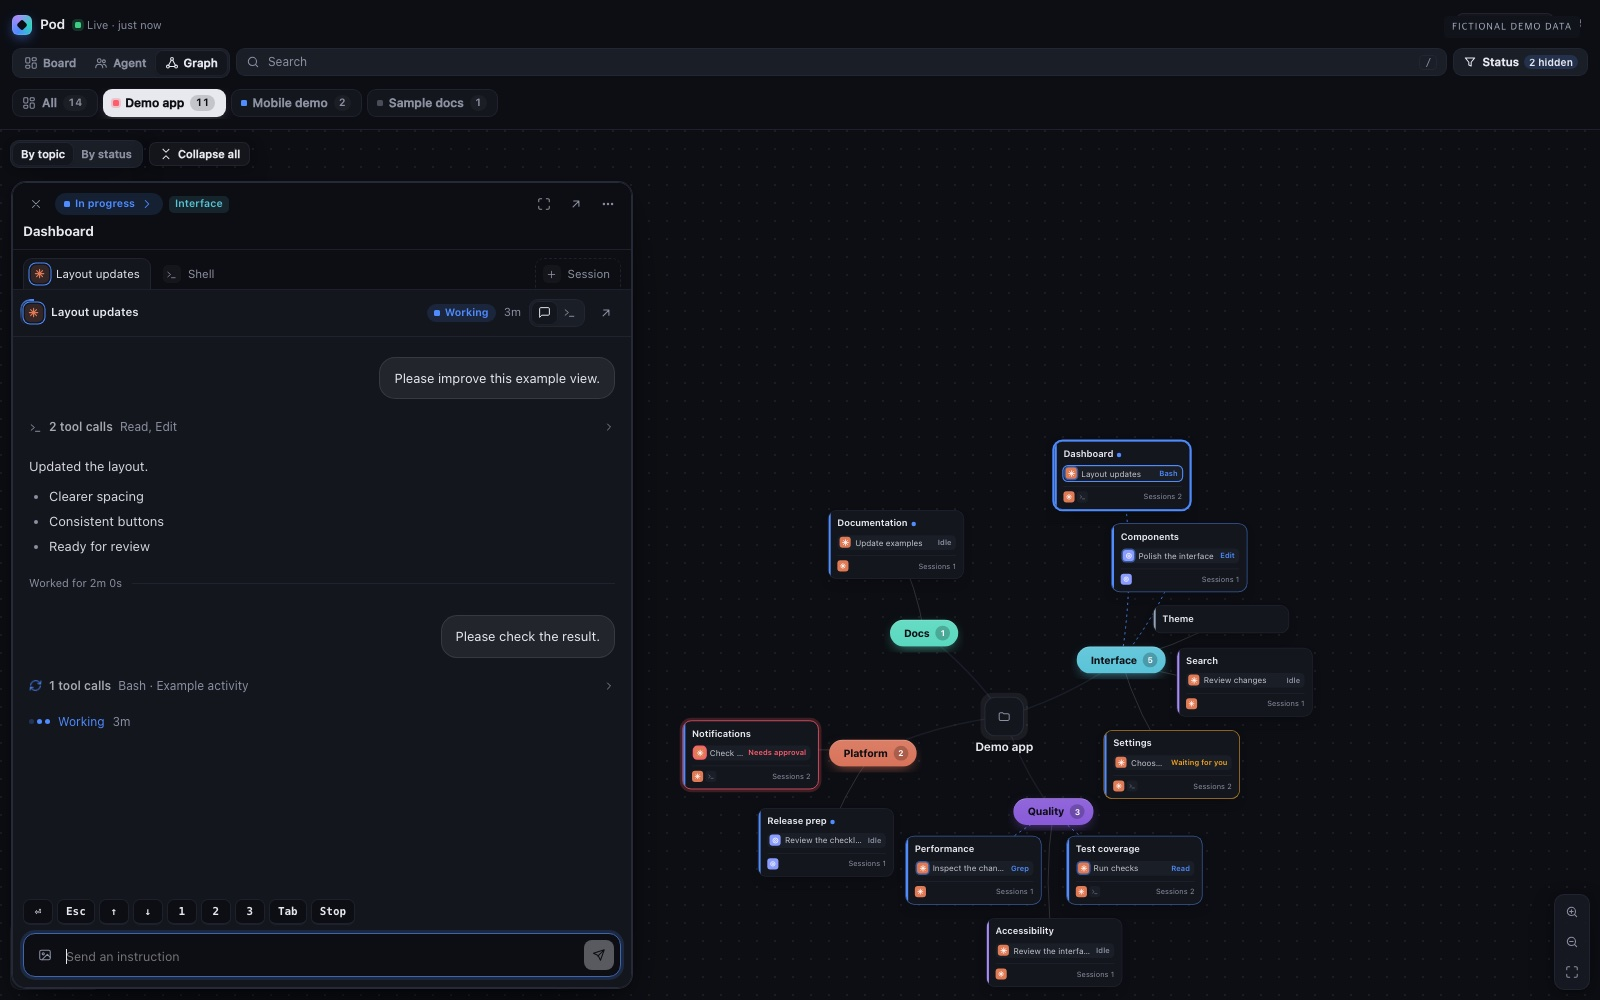
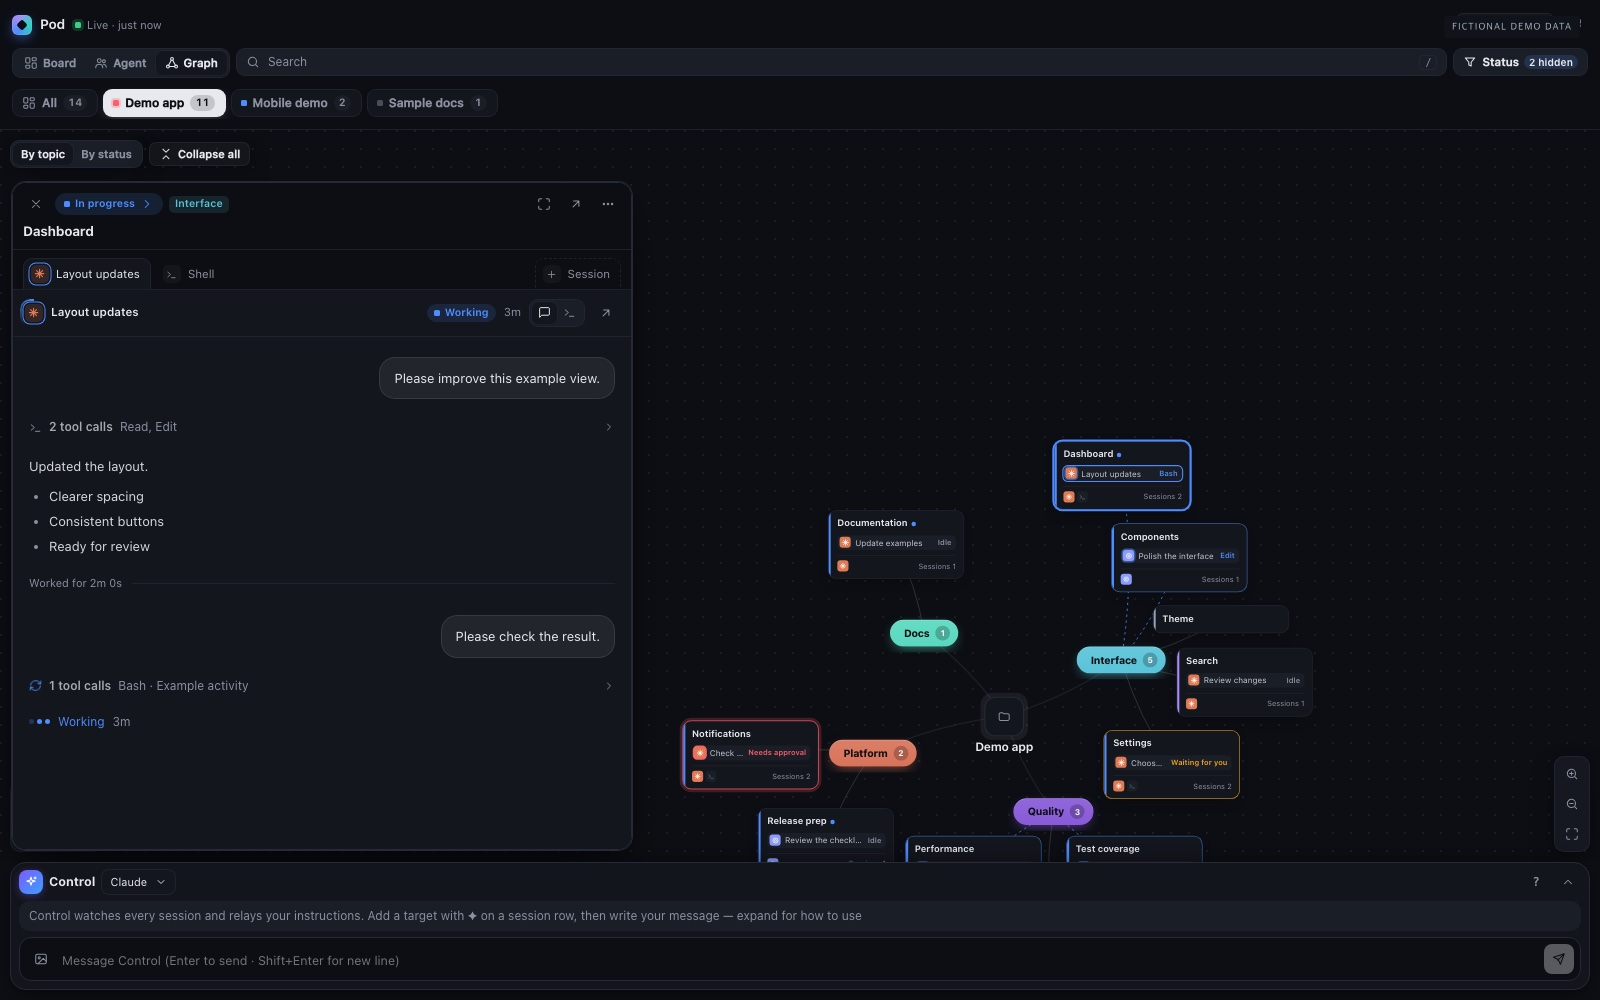
Pod 0.3.1 — Keep Control visible and remove per-session input controls

diff --git a/src/panel/detail.ts b/src/panel/detail.ts
@@ -1,13 +1,14 @@
-// 상세(작업실): 워크스페이스 하나를 열어 두고 에이전트 터미널을 보면서 지시를 보낸다.
+// 상세(작업실): 워크스페이스의 대화와 터미널 출력을 읽는다. 지시는 하단 관제에서 보낸다.
 import { t } from './i18n'
 import type { AgentView, Snapshot, WorkspaceView } from '../model'
 import type { ChatItem } from '../transcript'
-import { attachments } from './attach'
 import { markdown, renderChat, setLinkHandler } from './chat'
 import { closeMenu, hideHover, openMenu } from './overlays'
 import { AGENT_STATE_LABEL, agentName, agoFull, avatar, duration, fill, h, icon, statusColor, statusLabel, topicColor } from './ui'
 
 export interface DetailApi {
+  /** 상세를 펼쳐도 상단 탐색과 하단 관제는 남겨 둔다. */
+  content: HTMLElement
   snap(): Snapshot | null
   call<T = any>(name: string, input?: unknown, quiet?: boolean): Promise<T>
   openWorkspace(w: WorkspaceView): void
@@ -36,17 +37,6 @@ export interface OpenOptions {
 const EASE = 'cubic-bezier(0.2, 0.8, 0.2, 1)'
 
 type Session = { kind: 'agent'; agent: AgentView } | { kind: 'terminal'; handle: string; title: string; connected: boolean; setup: boolean }
-
-const KEYS: { key: string; label: string; title: string }[] = [
-  { key: 'enter', label: '⏎', title: 'Enter' },
-  { key: 'esc', label: 'Esc', title: 'Esc' },
-  { key: 'up', label: '↑', title: t('위') },
-  { key: 'down', label: '↓', title: t('아래') },
-  { key: '1', label: '1', title: '1' },
-  { key: '2', label: '2', title: '2' },
-  { key: '3', label: '3', title: '3' },
-  { key: 'tab', label: 'Tab', title: 'Tab' }
-]
 
 export function createDetail(api: DetailApi) {
   setLinkHandler((url) => api.openUrl(url))
@@ -374,7 +364,7 @@ export function createDetail(api: DetailApi) {
       )
       return
     }
-    sessionBody.replaceChildren(main, ...controls(handle))
+    sessionBody.replaceChildren(main)
   }
 
   /** 세션별로 대화/터미널 보기를 기억한다. 기본은 대화. */
@@ -519,74 +509,7 @@ export function createDetail(api: DetailApi) {
     stopPoll()
     void tick()
     poll = window.setInterval(() => void tick(), 1500)
-    refreshChat = () => window.setTimeout(() => void tick(), 400)
     return box
-  }
-
-  let refreshChat: () => void = () => {}
-
-  /** 키 버튼과 지시 입력창. */
-  function controls(handle: string): HTMLElement[] {
-    const refresh = () => {
-      if (screen) window.setTimeout(() => void pull(handle), 300)
-      else refreshChat()
-    }
-    const send = h('button', { class: 'send', title: t('보내기 (⌘Enter)'), disabled: true }, icon('send')) as HTMLButtonElement
-    const area = h('textarea', { rows: 1, placeholder: t('지시 보내기') }) as HTMLTextAreaElement
-    const composer = h('div', { class: 'composer stack' })
-    const sync = () => (send.disabled = sending || (!area.value.trim() && pics.count() === 0))
-    const pics = attachments(composer, area, { call: (n, i, q) => api.call(n, i, q), toast: (m, k) => api.toast(m, k), onChange: sync })
-    composer.append(pics.tray, h('div', { class: 'composer-row' }, pics.button, area, send))
-    area.addEventListener('input', sync)
-    let sending = false
-    const submit = async () => {
-      if (send.disabled || sending) return
-      sending = true
-      send.disabled = true
-      area.readOnly = true
-      pics.lock(true)
-      try {
-        const body = await pics.compose(area.value)
-        await api.call('pod.send', { terminal: handle, text: body })
-        area.value = ''
-        pics.clear()
-        stickBottom = true
-        refresh()
-      } catch {
-      } finally {
-        sending = false
-        area.readOnly = false
-        pics.lock(false)
-        sync()
-      }
-    }
-    send.addEventListener('click', () => void submit())
-    area.addEventListener('keydown', (ev) => {
-      if (ev.key === 'Enter' && (ev.metaKey || ev.ctrlKey)) {
-        ev.preventDefault()
-        void submit()
-      }
-    })
-    const key = (k: (typeof KEYS)[number]) =>
-      h('button', { class: 'key', title: k.title, onClick: () => void api.call('pod.key', { terminal: handle, key: k.key }).then(refresh) }, k.label)
-    let armed = 0
-    const stop = h('button', { class: 'key danger', title: t('중단 (Ctrl-C)') }, t('중단'))
-    stop.addEventListener('click', () => {
-      if (!armed) {
-        stop.textContent = t('한 번 더')
-        armed = window.setTimeout(() => {
-          armed = 0
-          stop.textContent = t('중단')
-        }, 2000)
-        return
-      }
-      window.clearTimeout(armed)
-      armed = 0
-      stop.textContent = t('중단')
-      void api.call('pod.interrupt', { terminal: handle }).then(() => api.toast(t('중단 신호를 보냈습니다')))
-    })
-    queueMicrotask(() => area.focus())
-    return [h('div', { class: 'keys' }, KEYS.map(key), stop), composer]
   }
 
   function update(): void {
@@ -599,7 +522,7 @@ export function createDetail(api: DetailApi) {
     if (s) sessionKey = keyOf(s)
     if (s) renderSessionHead(w, s)
     else sessionHead?.replaceChildren()
-    // 세션이 바뀌었을 때만 본문(화면 미러·입력창)을 새로 만든다.
+    // 세션이 바뀌었을 때만 본문을 새로 만든다.
     const sig = s ? `${keyOf(s)}|${terminalOf(s) ?? ''}|${s.kind === 'agent' && !terminalOf(s) ? s.agent.updatedAt : ''}` : 'none'
     if (sig !== renderedSession) {
       renderedSession = sig
@@ -607,40 +530,10 @@ export function createDetail(api: DetailApi) {
     }
   }
 
-  const rectInset = (r: DOMRect) =>
-    `inset(${Math.max(0, r.top)}px ${Math.max(0, window.innerWidth - r.right)}px ${Math.max(0, window.innerHeight - r.bottom)}px ${Math.max(0, r.left)}px round 12px)`
-
-  function backdrop(on: boolean): void {
-    const app = document.getElementById('app')
-    if (!app?.animate) return
-    app.animate(
-      on
-        ? [{ transform: 'scale(1)', filter: 'brightness(1)' }, { transform: 'scale(0.965)', filter: 'brightness(0.6)' }]
-        : [{ transform: 'scale(0.965)', filter: 'brightness(0.6)' }, { transform: 'scale(1)', filter: 'brightness(1)' }],
-      { duration: on ? 420 : 300, easing: EASE, fill: 'forwards' }
-    )
-  }
-
-  /** 누른 요소 자리에서 화면 전체로 펼친다. 요소가 없으면 옆에서 밀려 들어온다. */
-  function morphIn(el: HTMLElement, from: Element | null): void {
-    const r = from?.isConnected ? from.getBoundingClientRect() : null
-    if (!r || !el.animate || r.width === 0) {
-      el.classList.add('slide')
-      return
-    }
-    el.animate([{ clipPath: rectInset(r), opacity: 0.5 }, { clipPath: 'inset(0px 0px 0px 0px round 0px)', opacity: 1 }], {
-      duration: 440,
-      easing: EASE
-    })
-    for (const [i, child] of [...el.children].entries()) {
-      ;(child as HTMLElement).animate([{ opacity: 0, transform: 'translateY(10px)' }, { opacity: 1, transform: 'none' }], {
-        duration: 320,
-        delay: 110 + i * 45,
-        easing: EASE,
-        fill: 'backwards'
-      })
-    }
-    backdrop(true)
+  /** 확대 보기도 본문 영역 안에 두어 관제 입력창을 가리지 않는다. */
+  function placeExpanded(el: HTMLElement): void {
+    const r = api.content.getBoundingClientRect()
+    Object.assign(el.style, { top: `${r.top}px`, left: `${r.left}px`, width: `${r.width}px`, height: `${r.height}px`, right: 'auto', bottom: 'auto' })
   }
 
   /** 창 모드: 누른 노드의 반대편에 세로로 붙이고, 좁으면 아래쪽 시트로 띄운다. */
@@ -736,6 +629,9 @@ export function createDetail(api: DetailApi) {
         hostObserver.observe(host)
       } else {
         document.body.append(root)
+        placeExpanded(root)
+        hostObserver = new ResizeObserver(() => root && placeExpanded(root))
+        hostObserver.observe(api.content)
       }
     } else if (host) {
       // 이미 떠 있는 창: 다른 노드를 누르면 내용만 바꾸고 살짝 강조한다.
@@ -744,8 +640,7 @@ export function createDetail(api: DetailApi) {
     update()
     api.onSelect?.({ wsId: id, agentKey: sessionKey?.startsWith('a:') ? sessionKey.slice(2) : null })
     if (fresh && root) {
-      if (host) growFrom(root, origin)
-      else morphIn(root, origin)
+      growFrom(root, origin)
     }
   }
 
@@ -824,6 +719,8 @@ export function createDetail(api: DetailApi) {
       return
     }
     stopPoll()
+    hostObserver?.disconnect()
+    hostObserver = null
     screen = null
     memo?.blur()
     const el = root
@@ -844,7 +741,8 @@ export function createDetail(api: DetailApi) {
     const r = target?.getBoundingClientRect()
     if (r && r.width > 0 && el.animate) {
       for (const child of el.children) (child as HTMLElement).animate([{ opacity: 1 }, { opacity: 0 }], { duration: 140, fill: 'forwards' })
-      const anim = el.animate([{ clipPath: 'inset(0px 0px 0px 0px round 0px)', opacity: 1 }, { clipPath: rectInset(r), opacity: 0.3 }], {
+      const to = el.getBoundingClientRect()
+      const anim = el.animate([{ transformOrigin: '0 0', transform: 'none', opacity: 1 }, { transformOrigin: '0 0', transform: `translate(${r.left - to.left}px, ${r.top - to.top}px) scale(${Math.max(0.05, r.width / to.width)}, ${Math.max(0.05, r.height / to.height)})`, opacity: 0.3 }], {
         duration: 320,
         easing: EASE,
         fill: 'forwards'
@@ -854,7 +752,6 @@ export function createDetail(api: DetailApi) {
       el.classList.add('closing')
       window.setTimeout(() => el.remove(), 180)
     }
-    backdrop(false)
   }
 
   /** 작업실을 열고 바로 새 세션을 시작한다. */

diff --git a/src/panel/app.ts b/src/panel/app.ts
@@ -884,7 +884,7 @@ const VIEWS: { id: View; label: string; icon: string }[] = [
 ]
 
 function setView(v: View): void {
-  if (detail.isInline()) {
+  if (detail.isOpen()) {
     detail.dispose()
     graph.select(null)
   }
@@ -1595,6 +1595,7 @@ function detailOpenUrl(url: string): void {
 }
 
 const detail = createDetail({
+  content: body,
   snap: () => state.snap,
   call,
   openWorkspace,
@@ -1626,8 +1627,7 @@ const controller = createController({
   snap: () => state.snap,
   call,
   toast,
-  openUrl: (url) => detailOpenUrl(url),
-  hidden: () => detail.isOpen()
+  openUrl: (url) => detailOpenUrl(url)
 })
 
 /* ---------- 본문: 그래프 ---------- */
@@ -1804,7 +1804,7 @@ function mount(): void {
     if (ev.key === '/' && !typing && !sheetOpen()) {
       ev.preventDefault()
       searchInput.focus()
-    } else if (ev.key === 'i' && !typing && !sheetOpen() && !detail.isOpen() && !ev.metaKey && !ev.ctrlKey) {
+    } else if (ev.key === 'i' && !typing && !sheetOpen() && !ev.metaKey && !ev.ctrlKey) {
       ev.preventDefault()
       controller.focus()
     } else if ((ev.key === '[' || ev.key === ']') && !typing && !sheetOpen()) {

diff --git a/src/panel/controller.ts b/src/panel/controller.ts
@@ -16,8 +16,6 @@ export interface ControllerApi {
   call<T = any>(name: string, input?: unknown, quiet?: boolean): Promise<T>
   toast(message: string, kind?: 'ok' | 'err'): void
   openUrl(url: string): void
-  /** 작업 창이 열려 있으면 관제 줄을 숨긴다. */
-  hidden(): boolean
 }
 
 export interface ControlView {
@@ -315,10 +313,6 @@ export function createController(api: ControllerApi) {
   let showGuide = false
 
   function update(): void {
-    const hide = api.hidden()
-    el.classList.toggle('off', hide)
-    document.getElementById('app')?.classList.toggle('has-dock', !hide)
-    if (hide) return
     el.classList.toggle('open', open)
     el.dataset.state = view.busy ? 'working' : ''
     // 받은 대화 항목이 이상해도 관제 줄이 멈추지 않게 한다.

diff --git a/src/panel/style.css b/src/panel/style.css
@@ -2418,13 +2418,6 @@ html.light .screen {
   background: color-mix(in srgb, #000 4%, var(--card));
 }
 
-.keys {
-  display: flex;
-  flex-wrap: wrap;
-  gap: 4px;
-  padding: 8px 10px 0;
-}
-
 .key {
   min-width: 30px;
   height: 26px;
@@ -3362,10 +3355,6 @@ html.light .md-code {
   position: relative;
   z-index: 4;
   transition: border-color 0.25s;
-}
-
-.dock.off {
-  display: none;
 }
 
 .dock[data-state='blocked'] {

diff --git a/README.md b/README.md
@@ -4,13 +4,13 @@
 
 ![Pod graph with fictional example workspaces](images/graph.jpg)
 
-Pod brings your repositories, topics, workspaces, and agent sessions onto one map. See what needs your attention, open a session without leaving the graph, and send the next instruction from the same place.
+Pod brings your repositories, topics, workspaces, and agent sessions onto one map. See what needs your attention, open a session without leaving the graph, and coordinate the next instruction through Control.
 
 ## What you can do
 
 - **Explore the graph.** Group workspaces by topic or status, collapse groups, zoom, and drag cards between topics.
 - **Find sessions that need you.** The board and agent views surface approval requests, unanswered questions, and active sessions.
-- **Work inside the map.** Open a session window, read Claude conversations, view terminal output, send instructions, and attach images.
+- **Work inside the map.** Open a session window, read Claude conversations, and view terminal output. Control stays available while you read.
 - **Coordinate with Control.** Ask for a status update or relay a message to a selected session. Use the ✦ button on a session row to add its reference to the input.
 - **Keep things organized.** Create topics and subtopics, start sessions, edit workspace notes, and close leftover terminal tabs.
 
@@ -18,7 +18,7 @@ Pod brings your repositories, topics, workspaces, and agent sessions onto one ma
 
 ### Session window
 
-Read a conversation without navigating away from the graph. Send follow-ups to terminal-backed sessions; Orca chat sessions continue in their native chat window.
+Read a conversation without navigating away from the graph. Use Control to coordinate supported sessions, or open the session in Orca for direct interaction.
 
 ![Session window with a short fictional conversation](images/session.jpg)
 
@@ -70,7 +70,7 @@ Review the permissions shown by Orca before approving the plugin. Keep a develop
 
 ## Sessions and delivery
 
-Claude terminal sessions can appear as conversations using their local transcripts. Codex sessions and other terminals use the terminal view when a conversation view is unavailable. Open a session in Orca when you need its full native interface.
+Claude terminal sessions can appear as conversations using their local transcripts. Codex sessions and other terminals use the terminal view when a conversation view is unavailable. Session windows in Pod are read-only. Open a session in Orca when you need its full native interface.
 
 Control can relay instructions to supported agent terminal sessions. Claude-to-Claude chat messaging uses Claude Code messages. A message being accepted or queued does not mean the receiving agent has finished the task.
 
